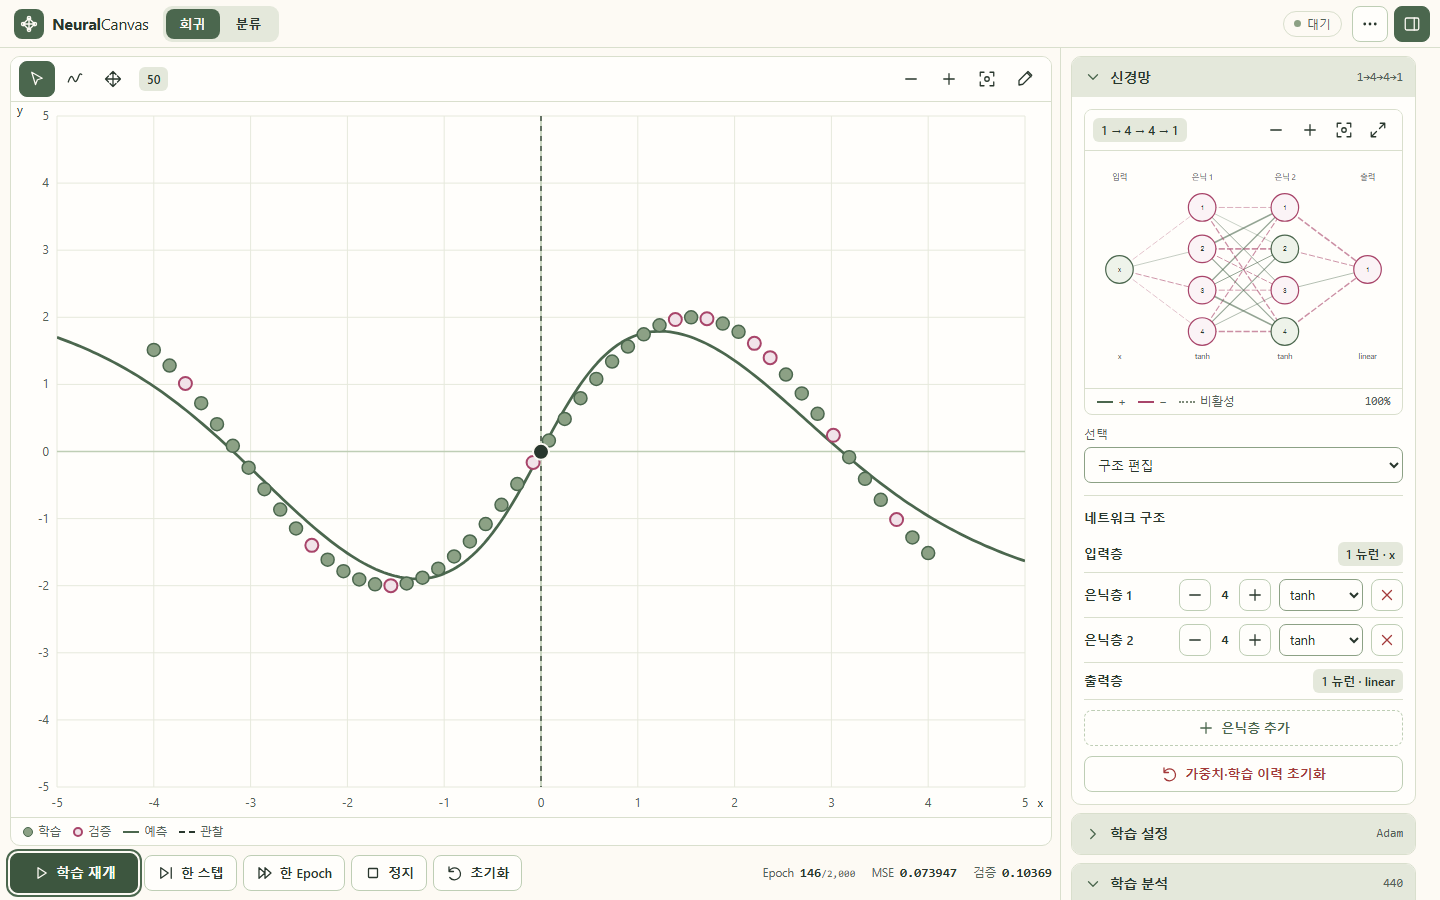
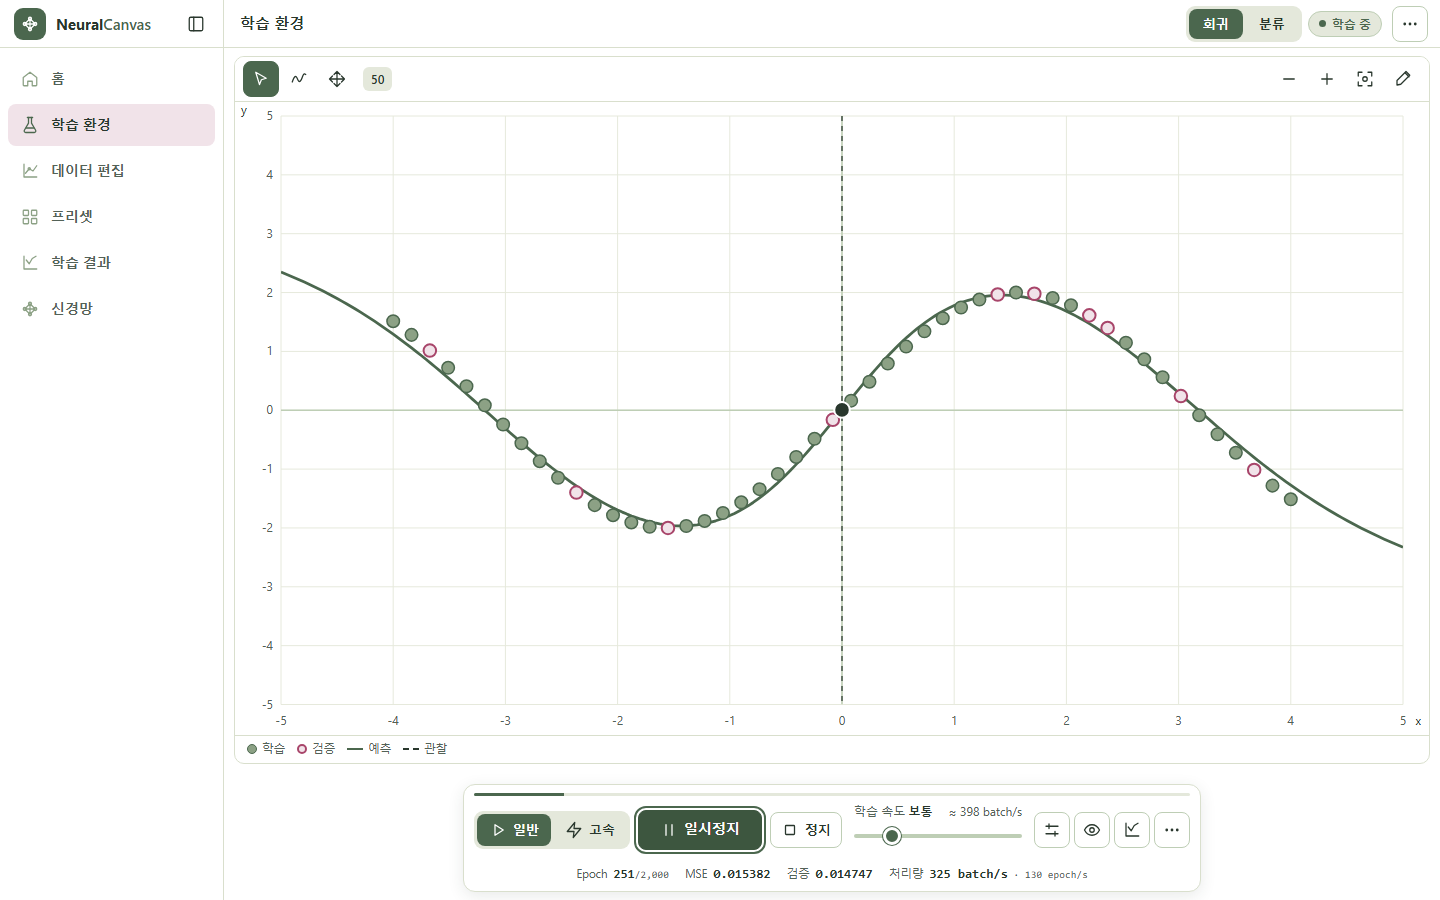
Document the RL-style redesign, refresh screenshots and tune the network labels

diff --git a/src/NetworkView.tsx b/src/NetworkView.tsx
@@ -238,7 +238,8 @@ export const NetworkView = memo(function NetworkView({
       width: chosen ? 3.6 : (0.7 + 2.6 * strength) * (related ? 1.4 : 1),
     };
   };
-  const showText = scale >= 0.55;
+  const showText = scale >= 0.4,
+    labelSize = Math.min(14, Math.max(11, 9.5 / scale));
   return (
     <section className="network-view" aria-label="신경망">
       <div className="network-toolbar" role="toolbar" aria-label="신경망 도구">
@@ -389,7 +390,7 @@ export const NetworkView = memo(function NetworkView({
                   y={padY - 38}
                   textAnchor="middle"
                   fill={palette.muted}
-                  fontSize="13"
+                  fontSize={Math.max(13, 12 / scale)}
                   fontWeight="600"
                 >
                   {l === 0
@@ -483,7 +484,9 @@ export const NetworkView = memo(function NetworkView({
                         x={p.x}
                         y={p.y + 4}
                         fill={palette.ink}
-                        fontSize={label.length > 4 ? 9 : 11}
+                        fontSize={
+                          label.length > 4 ? labelSize * 0.82 : labelSize
+                        }
                         textAnchor="middle"
                         fontFamily="ui-monospace,monospace"
                         pointerEvents="none"
@@ -498,7 +501,7 @@ export const NetworkView = memo(function NetworkView({
                   x={pos(l, 0).x}
                   y={worldH - padY + 44}
                   fill={palette.muted}
-                  fontSize="12"
+                  fontSize={Math.max(12, 11 / scale)}
                   textAnchor="middle"
                 >
                   {l === 0

diff --git a/src/shell.css b/src/shell.css
@@ -846,3 +846,15 @@
   font-size: 12.5px;
   font-variant-numeric: tabular-nums;
 }
+.inline-field span {
+  white-space: nowrap;
+}
+@media (max-width: 900px) {
+  .network-toolbar .inline-field span {
+    display: none;
+  }
+  .network-toolbar .inline-field select {
+    width: 104px;
+    min-height: 36px;
+  }
+}

diff --git a/docs/RL_STYLE_REDESIGN.md b/docs/RL_STYLE_REDESIGN.md
@@ -1,0 +1,122 @@
+# NeuralCanvas v2 — RL-Playground 구조 기반 전체 개편 (2026-10-28)
+
+RL-Playground(`oyueo-mm/RL-Playground`, 수정하지 않음)의 화면 구조와 작업 흐름을 NeuralCanvas의 신경망 실습에 맞게 옮겼습니다. 강화학습 기능과 파란 테마는 가져오지 않았고, 순백 배경·세이지·핑크 팔레트를 그대로 씁니다.
+
+## 참고한 RL-Playground 구조
+
+| RL-Playground | NeuralCanvas v2 |
+| --- | --- |
+| 왼쪽 접이식 내비게이션(아이콘+라벨, 모바일 드로어) | `Nav.tsx` — 홈·학습 환경·데이터 편집·프리셋·학습 결과·신경망, 접으면 아이콘만 + 툴팁 |
+| 홈: 왼쪽 소개, 오른쪽 GridWorld 시연 | `Home.tsx`, `HomeDemo.tsx` — 오른쪽에 **실제로 학습하는** 작은 신경망 |
+| 실험 화면은 항상 마운트하고 `hidden`으로 전환 | 모든 실험 화면을 마운트 유지, 숨은 화면은 학습 갱신에 리렌더하지 않음 |
+| `FloatingToolbar`가 높이를 측정해 `--toolbar-space` 확보 | `Toolbar.tsx` — 같은 방식으로 그래프 아래에 떠 있는 툴바 |
+| `SpeedControl` 1~100 슬라이더 + 느림/보통/빠름 | `speed.ts` + 툴바 슬라이더 (실시간, 초기화 없음) |
+| 일반/고속(Turbo) 학습 | `runner.ts` — 같은 Trainer를 쓰는 두 스케줄러 |
+| 프리셋 갤러리 | `PresetsPage.tsx` + `presets.ts` — 데이터·구조·학습 설정 묶음 |
+
+RL-Playground는 고속 학습을 주 스레드의 짧은 청크로 구현했습니다. NeuralCanvas는 이미 Web Worker 학습이 있으므로 Worker 안에서 같은 방식(시간 조각 + 제어 메시지 처리)을 적용했습니다.
+
+## 화면 구성
+
+- **홈** — 큰 제목, 한 줄 설명, `학습 시작하기`/`프리셋 둘러보기`, 작은 기술 태그, 오른쪽 시연. 시연은 브라우저에서 같은 `Trainer`로 실제 학습하는 1→5→5→1 신경망이며, 입력을 훑는 신호·활성화·예측 곡선·손실이 모두 실제 계산입니다(“실제 계산” 표시). 일시정지, 처음부터, 홈을 떠나면 rAF 정리, 탭이 숨겨지면 중단, `prefers-reduced-motion`이면 정지 상태로 시작하고 흐름 애니메이션을 끕니다.
+- **학습 환경** — 데이터 그래프가 화면 대부분. 하단에 떠 있는 툴바: 일반/고속, 학습 시작·일시정지·재개, 정지, 속도 슬라이더, 학습 설정, 시각화 설정, 학습 결과 열기, 더보기(한 스텝·한 Epoch·초기화). 아래 줄에 Epoch·손실·검증·정확도·처리량과 Epoch 진행률.
+- **데이터 편집** — 학습 환경과 **같은 그래프 인스턴스**를 공유합니다(확대·선택·데이터가 항상 동일). 오른쪽에 점 선택·삭제·Undo/Redo·프리셋·표본 수·잡음·데이터 시드·CSV/JSON 가져오기/내보내기. 좁은 화면은 시트.
+- **프리셋** — 썸네일 카드, 유형·난이도 필터, 큰 데이터 분포 미리보기, 구조·학습 설정·기대 현상, `실험에 적용`(확인 후 교체).
+- **학습 결과** — 큰 손실 곡선, 누적 Epoch·업데이트, 검증 지표, 가중치·기울기 요약, 분류 정확도와 혼동 행렬.
+- **신경망** — 넓은 캔버스 + 접을 수 있는 Inspector(좁은 화면은 바텀 시트).
+
+사이드바 상태, 실험 상태(데이터·가중치·학습 이력·Worker·확대율)는 화면을 옮겨도 유지됩니다. 홈은 첫 접속에 항상 먼저 열립니다.
+
+## 일반학습과 고속학습
+
+`Trainer.batch()`를 수학 변경 없이 `advance()`(기울기+Optimizer 업데이트+배치 순서)와 `metrics()`(손실·정확도·발산 검사)로 나눴습니다. `batch()`는 둘의 합성이라 기존 동작은 그대로입니다. `Runner`가 한 개의 Trainer 위에서 두 방식을 스케줄합니다.
+
+| | 일반 | 고속 |
+| --- | --- | --- |
+| 업데이트마다 손실 측정 | 예(모든 업데이트가 기록됨) | 아니오 — 시간 조각(50ms)마다 1회 |
+| 속도 | 슬라이더(1~100) 목표 batch/s | 기기 최대 |
+| 페이지로 전송 | 틱마다 기록+스냅샷 | 200ms마다 기록 묶음+모델 스냅샷 |
+| 제어 메시지 | 틱 사이 | 조각 사이(`setTimeout 0`) — 일시정지·정지·속도·모드가 바로 반응 |
+
+- 일반↔고속 전환, 속도 변경, 일시정지/재개는 **같은 Trainer를 유지**하므로 가중치, Adam 모멘트, 배치 셔플 순서가 이어집니다. 단위 테스트가 정확한 일치를 검증합니다(아래).
+- **정지**는 Worker를 종료합니다: 가중치는 남지만 Optimizer 상태와 배치 순서는 다음 시작에서 새로 만들어집니다(기존 동작). **일시정지**는 이를 유지합니다. 학습률·구조·배치 등 설정 변경은 기존처럼 세션을 초기화하고, 속도·모드 변경은 초기화하지 않습니다.
+- 속도는 `settings.speed`(저장 형식 그대로)이며 `targetRate`가 1→≈1 batch/s, 20→≈400 batch/s(기존 기본값과 비슷), 100→≈20,000 batch/s로 대응합니다. 실제 처리량은 Worker가 측정해 표시합니다.
+- 기록은 최대 1,000개이며 넘으면 오래된 기록을 버리지 않고 **절반으로 솎아** 전체 곡선을 유지합니다. 누적 Epoch·업데이트는 스냅샷에서 별도로 집계합니다.
+
+## 프리셋 (13개)
+
+데이터·구조·활성화·Optimizer·학습률·배치·Epoch·시드를 함께 적용합니다. 미리보기는 데이터 분포만 그리며 학습 결과를 흉내 내지 않습니다. 같은 유형이 아니면 현재 유형의 실험은 보관되고 전환됩니다. 아래는 각 프리셋의 목표 Epoch까지 실제로 학습한 결과(시드 고정, 이 환경)입니다. 결과가 항상 같다고 보장하지 않습니다.
+
+| 프리셋 | 유형·난이도 | 구조 | 결과 |
+| --- | --- | --- | --- |
+| 선형 회귀 | 회귀·입문 | 1-4-1 | 학습 0.0076 / 검증 0.0083 |
+| 이차함수 | 회귀·입문 | 1-8-8-1 | 0.0046 / 0.0081 |
+| 사인함수 | 회귀·중급 | 1-8-8-1 | 0.0029 / 0.0042 |
+| 계단함수 | 회귀·중급 | 1-8-8-1 | 0.0031 / 0.0036 |
+| 고주파 비선형 | 회귀·고급 | 1-16-16-1 | 0.034 / 0.064 (진동을 완전히 따라가지는 못함) |
+| 과소적합 실험 | 회귀·입문 | 1-1(linear)-1 | 1.62 / 1.98 — 손실이 정체 |
+| 과적합 실험 | 회귀·고급 | 1-16-16-16-1, 24점, 잡음 0.7 | 0.0175 / 0.380 — 검증이 21배 높음 |
+| XOR | 분류·입문 | 2-6-1 | 학습 정확도 0.99 / 검증 0.875 |
+| Gaussian Blobs | 분류·입문 | 2-4-1 | 1.0 / 1.0 |
+| Two Moons | 분류·중급 | 2-8-8-1 | 1.0 / 1.0 |
+| Concentric Circles | 분류·중급 | 2-8-8-1 | 1.0 / 1.0 |
+| Spiral | 분류·고급 | 2-16-16-1 | 1.0 / 1.0 (2,500 Epoch) |
+| 복잡한 비선형 경계 | 분류·고급 | 2-16-16-16-1 | 학습 0.992 / 검증 0.80 — 일반화 격차 |
+
+`src/presets.test.ts`가 모든 프리셋의 저장 형식 검증·재현성·60 Epoch 내 손실 감소를 확인하고, 과소적합·과적합·XOR·Blobs의 위 현상을 자동 검증합니다.
+
+## 신경망 시각화
+
+- 층 간격·뉴런 간격이 고정된 월드 좌표에 라벨 여백까지 포함하고, 기본 보기는 캔버스 크기에서 **자동으로 맞춰집니다**(리사이즈 시 잘리지 않음). 사용자가 확대·이동한 값은 그대로 유지됩니다. 2→16→16→1에서도 모든 뉴런이 캔버스 안에 있음을 테스트가 검사합니다(리사이즈 후 포함).
+- 연결선: 양수 세이지·음수 로즈, 굵기·불투명도는 |w|/max|w|, 비활성은 점선, 선택은 강하게. `전체/주요/선택 중심` 모드는 표시만 바꾸며 연결 정보는 그대로(DOM 개수 테스트).
+- 뉴런: 활성화 값에 따른 채움, 선택 테두리, Hover 시 입출력 연결 강조, `번호/활성화/편향` 표시, 확대율에 맞춘 라벨 크기.
+- Inspector: 뉴런(ID·층, 활성화 함수, z, a, 편향, ∂L/∂z, 연결 수·평균 |w|, 입력별 기여)·연결(From/To, 가중치 편집, 부호, 기여량, ∂L/∂w, 활성화 스위치). 모두 실제 모델·최근 배치 기울기에서 가져옵니다. 접으면 캔버스가 넓어집니다. 입력 관찰도 여기에 있습니다.
+
+## 성능 측정 (이 PC, Windows, Chromium)
+
+단위 벤치마크(`npm run benchmark`, 업데이트/초, 메트릭을 매번 vs 25회에 한 번 측정):
+
+| 모델 · 데이터 | 일반 방식 | 고속 방식 | 배율 |
+| --- | --- | --- | --- |
+| 4-4 · 50점 | 17,596 | 41,434 | 2.35× |
+| 8-8 · 500점 | 2,299 | 13,915 | 6.05× |
+| 16-16-16-16 · 500점 | 450 | 2,054 | 4.56× |
+| 16-16-16-16 · 2,000점 | 57 | 695 | 12.27× |
+
+실제 브라우저(Worker, 슬라이더 100 vs 고속, 3초, `tests/performance.spec.ts`):
+
+| | 일반 | 고속 | 배율 | rAF 최대 간격 | long task |
+| --- | --- | --- | --- | --- | --- |
+| 4-4 · 50점 | 7,075/s | 34,583/s | 4.9× | 17ms | 0 |
+| 16-16-16-16 · 2,000점 | 25/s | 958/s | 38× | 17ms | 0 |
+
+일반 방식은 업데이트마다 학습·검증 전체 데이터의 손실을 계산하므로 데이터가 많을수록 차이가 커집니다. 12초 고속 학습에서 JS 힙은 29.4MB → 29.4MB, 기록은 1,000개 이하였습니다. 배율은 기기에 따라 다릅니다.
+
+## 정확성 검증
+
+- 일반·고속·전환·속도 변경·일시정지 후 재개로 학습한 최종 가중치와 Adam 모멘트가 `batch()` 루프의 결과와 **정확히 같습니다**(`runner.test.ts`, 회귀·분류).
+- 느린 속도의 대기 중에도 속도 변경이 즉시 적용되고, 고속에서 발산하면 오류를 보고하며 멈춥니다.
+- `engine.ts`, `storage.ts`와 기존 수학 테스트는 수정하지 않았습니다. 저장 형식은 v2 그대로이며 v1/v2 파일을 모두 불러옵니다(속도·모드·프리셋 선택은 형식에 추가하지 않음).
+
+## 테스트
+
+`npm run typecheck`, `npm test`(Vitest 102개), `npm run build`, `npm run test:e2e`(Chromium·모바일·Firefox·WebKit). 새 e2e: 홈, 8개 뷰포트 레이아웃(1920×1080~360×800), 내비게이션 접기/기억, 페이지 이동 후 상태·Worker 보존, 프리셋 미리보기/취소/적용/유형 전환, 큰 신경망 경계 포함, Inspector, 고속·속도·모드 전환, 고속 완료, 모바일 드로어, 키보드, reduced-motion, 성능.
+
+## 한계
+
+- 일시정지 후 재개는 Optimizer를 유지하지만, **정지**나 페이지 새로고침 뒤에는 Adam 모멘트와 배치 순서가 새로 만들어집니다(기존 설계, 저장 형식에 담지 않음).
+- 처리량은 기기·모델·데이터 크기에 의존하며 고정 배율을 보장하지 않습니다.
+- 연결이 매우 많은 모델(16×16 층 여럿)은 SVG로 그려 갱신 빈도를 Worker 스냅샷 주기(일반 약 30Hz, 고속 5Hz)로 제한합니다.
+- 실제 휴대전화와 OS 키보드는 사용하지 않았고, 이 PC의 정책으로 로컬에서는 WebKit을 실행하지 못했습니다(CI에서 실행).
+
+## 스크린샷
+
+| | |
+| --- | --- |
+| ![홈](images/v2/home-1440.png) | ![학습 환경](images/v2/lab-1440.png) |
+| ![고속 학습](images/v2/lab-turbo-1440.png) | ![분류 · Spiral](images/v2/classification-1440.png) |
+| ![데이터 편집](images/v2/data-1440.png) | ![프리셋](images/v2/presets-1440.png) |
+| ![학습 결과](images/v2/results-1440.png) | ![신경망 2-16-16-1](images/v2/network-1440.png) |
+| ![신경망 Inspector](images/v2/network-trained-1440.png) | ![1024×768](images/v2/lab-1024.png) |
+
+모바일(390×844, 360×800): ![홈](images/v2/mobile-home.png) ![학습 환경](images/v2/mobile-lab.png) ![메뉴](images/v2/mobile-nav.png) ![프리셋](images/v2/mobile-presets.png) ![신경망](images/v2/mobile-network.png) ![결과](images/v2/mobile-results.png)

diff --git a/README.md b/README.md
@@ -10,7 +10,7 @@
 
 ## 작업 공간
 
-데이터 그래프가 화면의 중심입니다. 신경망·학습 설정·학습 분석·입력 관찰·파일은 오른쪽 접이식 사이드바의 아코디언에 있고, 사이드바를 닫으면 그래프가 화면 대부분을 차지합니다. 학습 컨트롤은 하단에 항상 있으며 모바일에서는 사이드바가 그래프 위의 드로어가 됩니다. [개편 내용과 검증](docs/UI_REDESIGN.md)을 확인하세요.
+왼쪽 접이식 내비게이션(홈·학습 환경·데이터 편집·프리셋·학습 결과·신경망)과 전체 화면 실험실 구조입니다. 학습 환경은 데이터 그래프가 화면 대부분을 차지하고 하단에 떠 있는 툴바에서 **일반/고속 학습**, 실시간 **학습 속도 슬라이더**, 설정을 조작합니다. 프리셋은 데이터·신경망 구조·학습 설정을 함께 적용하고, 신경망 화면은 넓은 캔버스와 Inspector로 큰 모델도 잘리지 않게 보여 줍니다. 모바일에서는 내비게이션이 드로어가 됩니다. 구조와 측정 결과는 [RL 스타일 개편 문서](docs/RL_STYLE_REDESIGN.md)를 확인하세요.
 
 ## 주요 기능
 
@@ -22,7 +22,8 @@
 - 은닉층 0~4개, 층당 1~16개 뉴런, linear/sigmoid/tanh/ReLU/Leaky ReLU
 - 실제 연결 선택, 가중치·편향 수정, 연결 비활성화와 재활성화
 - Xavier·He·Zero 초기화, SGD·Adam, 배치 크기·학습률·Epoch·검증 비율·클리핑 설정
-- Web Worker 학습, 일시정지/재개/정지, 한 배치 또는 한 Epoch 실행
+- Web Worker 학습: 일반(실시간 관찰)과 고속(처리량 최대, 같은 Trainer·같은 수치) 방식, 학습 중 속도 변경, 일시정지/재개/정지, 한 배치 또는 한 Epoch 실행
+- 13개 실험 프리셋(회귀·분류, 입문~고급, 과소적합·과적합 실험 포함)
 - 회귀 Train/Validation MSE, 분류 BCE·정확도·검증 정확도·혼동 행렬
 - 간결한 노드 요약, 확대·이동 가능한 60단위 간격 배치, Inspector의 ID·z/a·bias·기울기·입출력 가중치 요약
 - 모델을 고정한 입력 순회: 왕복·반복·한 방향, 속도 조절, 수동 x 입력

diff --git a/docs/UI_REDESIGN.md b/docs/UI_REDESIGN.md
@@ -1,3 +1,5 @@
+> 이 문서는 오른쪽 사이드바 구조(이전 디자인)의 기록입니다. 현재 구조는 [RL_STYLE_REDESIGN.md](RL_STYLE_REDESIGN.md)를 참고하세요.
+
 # UI/UX 전면 개편 — 데이터 그래프 중심 작업 공간 (2026-10-28)
 
 ## 레이아웃
